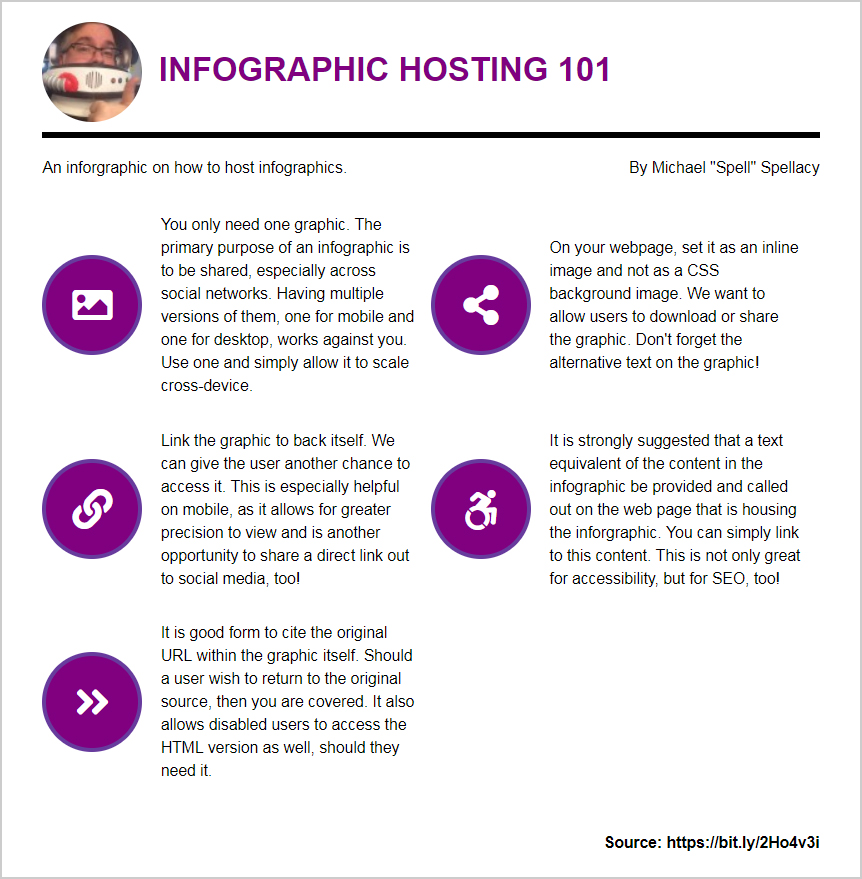
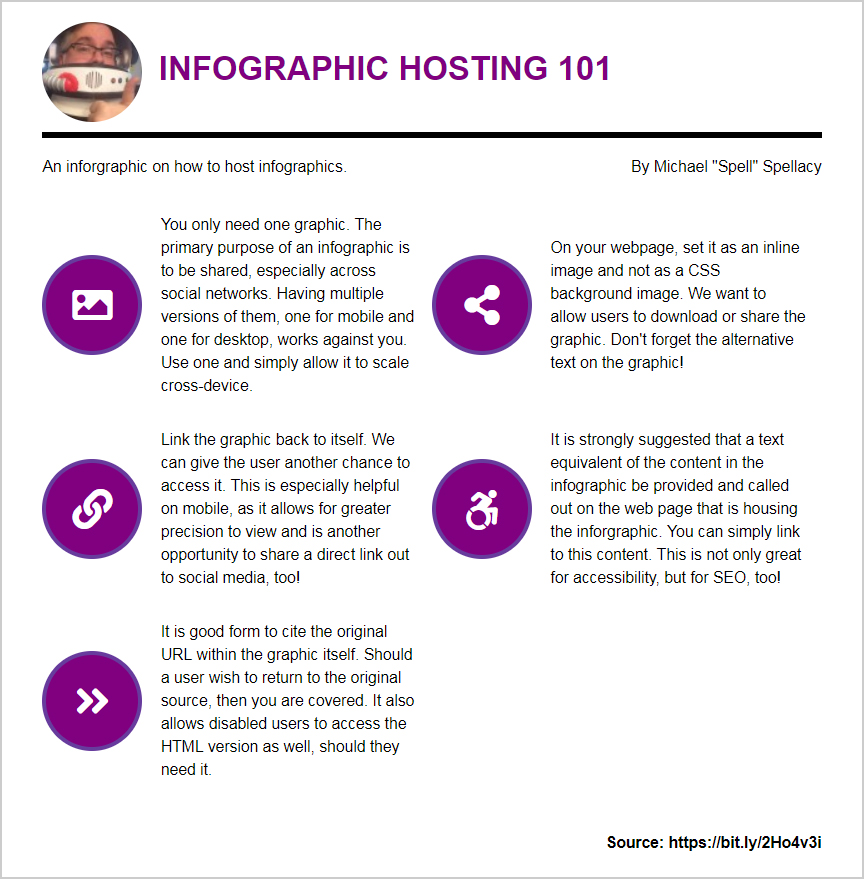
Typo on Infographic article

diff --git a/_posts/2016-10-18-how-to-host-an-infographic-html-fallback.html b/_posts/2016-10-18-how-to-host-an-infographic-html-fallback.html
@@ -36,7 +36,7 @@ tags: Accessibility Articles
 
     <h3 id="linking"><i class="fas fa-link"></i> <span>Linking</span></h3>
 
-    <p>Link the graphic to back itself. We can give the user another chance to access it. This is especially helpful on mobile, as it allows for greater precision to view and is another opportunity to share a direct link out to social media, too!</p>
+    <p>Link the graphic back to itself. We can give the user another chance to access it. This is especially helpful on mobile, as it allows for greater precision to view and is another opportunity to share a direct link out to social media, too!</p>
 
   </li>
   <li>
